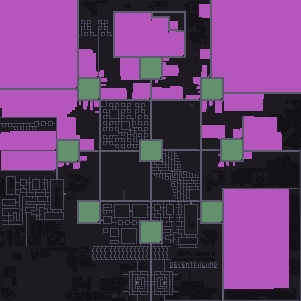
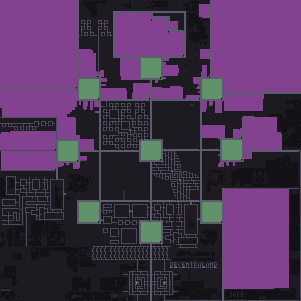
fix: colors

diff --git a/webapp/src/components/ParcelTags/ParcelTags.css b/webapp/src/components/ParcelTags/ParcelTags.css
@@ -45,7 +45,7 @@
 }
 
 .ParcelTags .tag-icon-road {
-  background-color: #838aa3;
+  background-color: #5c5b70;
   background-image: url('../../images/road-icon.svg');
 }
 
@@ -54,12 +54,12 @@
   background-size: 70%;
 }
 .ParcelTags .tag-icon-plaza {
-  background-color: #8dbe92;
+  background-color: #61926c;
   background-image: url('../../images/plaza-icon.svg');
 }
 
 .ParcelTags .tag-icon-district {
-  background-color: #7479ff;
+  background-color: #83428f;
   background-image: url('../../images/district-icon.svg');
 }
 

diff --git a/shared/map/tile.js b/shared/map/tile.js
@@ -20,10 +20,10 @@ export const TYPES = Object.freeze({
 export const COLORS = Object.freeze({
   myParcels: '#ff9990',
   myParcelsOnSale: '#ff4053',
-  myEstates: 'ff9990',
-  myEstatesOnSale: 'ff4053',
-  district: '#b556bd',
-  contribution: '#4a27d4',
+  myEstates: '#ff9990',
+  myEstatesOnSale: '#ff4053',
+  district: '#83428f',
+  contribution: '#563db8',
   roads: '#5c5b70',
   plaza: '#61926c',
   taken: '#312d37',

diff --git a/webapp/src/index.css b/webapp/src/index.css
@@ -77,9 +77,9 @@ a:hover,
   fill: #ff9990;
 }
 .district {
-  background-color: #b556bd;
-  color: #b556bd;
-  fill: #b556bd;
+  background-color: #83428f;
+  color: #83428f;
+  fill: #83428f;
 }
 .contribution {
   background-color: #4a27d4;
